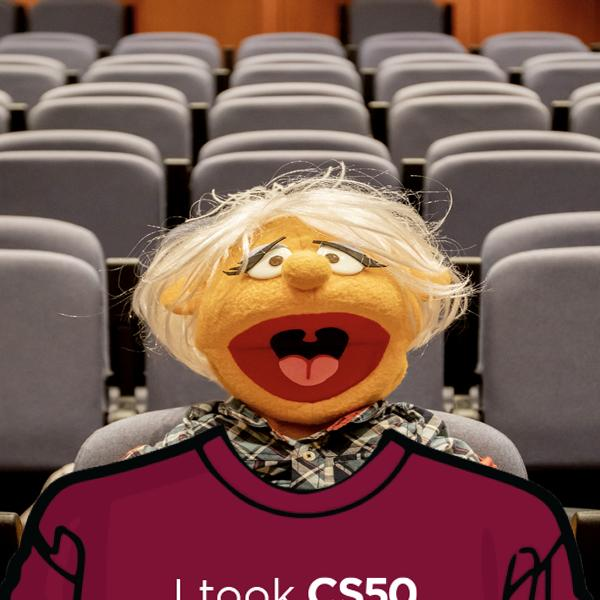
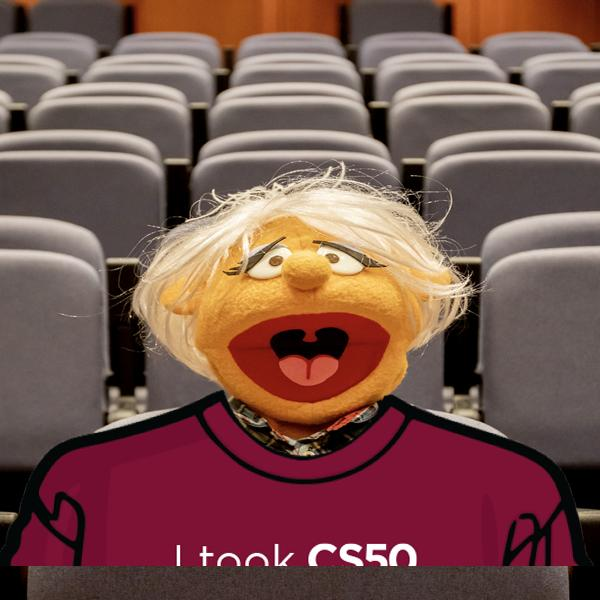
Wed, Jan 31, 2024, 6:58 PM +02:00

Changed region(s): [[0.0, 0.63, 0.99, 1.0]]

diff --git a/shirt/shirt.py b/shirt/shirt.py
@@ -18,11 +18,15 @@ def main():
     # resize the muppet image
     muppet = image1.resize(size)
 
+    # Shift the shirt upward by 20 pixels
+    shift_up = 34
+    paste_position = (0, -shift_up)
+
     # paste the shirt file
-    muppet.paste(shirt_file, (0, 0), shirt_file)
+    muppet.paste(shirt_file, paste_position, shirt_file)
 
     # Convert the image to 'RGB' mode
-    muppet = muppet.convert('RGB')
+    muppet = muppet.convert("RGB")
 
     # create output muppet
     muppet.save(sys.argv[2])
